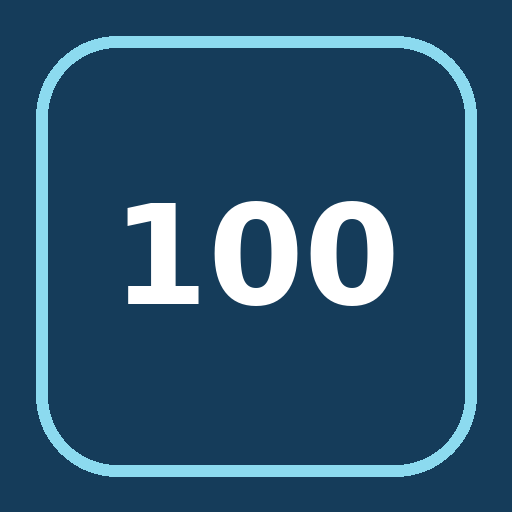
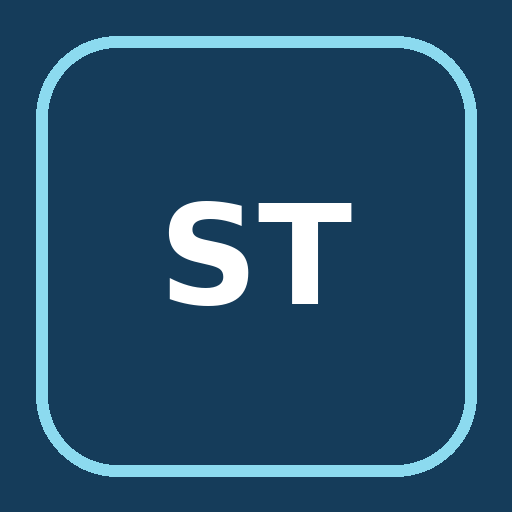
Rename Team 100 to Sample Team

Changed region(s): [[0.25, 0.375, 0.7812, 0.625]]

diff --git a/index.html b/index.html
@@ -1,1 +1,1 @@
-<!doctype html><html lang="en"><head><meta charset="utf-8"><meta name="viewport" content="width=device-width,initial-scale=1"><title>Softball Schedules</title><link rel="stylesheet" href="assets/style.css?v=2"></head><body><header><strong>Softball Schedules</strong></header><main><div class="hero"><h1>Team directory</h1><p>Choose a team to view its next game, schedule, and roster.</p></div><section><h2>Teams</h2><div class="panel"><label for="team-search">Find a team</label><input id="team-search" type="search" placeholder="Search team number" autocomplete="off"><ul id="team-list" class="team-grid"><li><a href="teams/team-01/">Team 01</a></li><li><a href="teams/team-02/">Team 02</a></li><li><a href="teams/team-03/">Team 03</a></li><li><a href="teams/team-04/">Team 04</a></li><li><a href="teams/team-05/">Team 05</a></li><li><a href="teams/team-06/">Team 06</a></li><li><a href="teams/team-07/">Team 07</a></li><li><a href="teams/team-08/">Team 08</a></li><li><a href="teams/team-09/">Team 09</a></li><li><a href="teams/team-10/">Team 10</a></li><li><a href="teams/team-11/">Team 11</a></li><li><a href="teams/team-12/">Team 12</a></li><li><a href="teams/team-13/">Team 13</a></li><li><a href="teams/team-14/">Team 14</a></li><li><a href="teams/team-15/">Team 15</a></li><li><a href="teams/team-16/">Team 16</a></li><li><a href="teams/team-17/">Team 17</a></li><li><a href="teams/team-18/">Team 18</a></li><li><a href="teams/team-19/">Team 19</a></li><li><a href="teams/team-20/">Team 20</a></li><li><a href="teams/team-21/">Team 21</a></li><li><a href="teams/team-22/">Team 22</a></li><li><a href="teams/team-23/">Team 23</a></li><li><a href="teams/team-24/">Team 24</a></li><li><a href="teams/team-25/">Team 25</a></li><li><a href="teams/team-26/">Team 26</a></li><li><a href="teams/team-27/">Team 27</a></li><li><a href="teams/team-28/">Team 28</a></li><li><a href="teams/team-29/">Team 29</a></li><li><a href="teams/team-30/">Team 30</a></li><li><a href="teams/team-31/">Team 31</a></li><li><a href="teams/team-32/">Team 32</a></li><li><a href="teams/team-33/">Team 33</a></li><li><a href="teams/team-34/">Team 34</a></li><li><a href="teams/team-35/">Team 35</a></li><li><a href="teams/team-36/">Team 36</a></li><li><a href="teams/team-37/">Team 37</a></li><li><a href="teams/team-38/">Team 38</a></li><li><a href="teams/team-39/">Team 39</a></li><li><a href="teams/team-40/">Team 40</a></li><li><a href="teams/team-41/">Team 41</a></li><li><a href="teams/team-42/">Team 42</a></li><li><a href="teams/team-43/">Team 43</a></li><li><a href="teams/team-44/">Team 44</a></li><li><a href="teams/team-45/">Team 45</a></li><li><a href="teams/team-46/">Team 46</a></li><li><a href="teams/team-47/">Team 47</a></li><li><a href="teams/team-48/">Team 48</a></li><li><a href="teams/team-49/">Team 49</a></li><li><a href="teams/team-50/">Team 50</a></li><li><a href="teams/team-51/">Team 51</a></li><li><a href="teams/team-52/">Team 52</a></li><li><a href="teams/team-53/">Team 53</a></li><li><a href="teams/team-54/">Team 54</a></li><li><a href="teams/team-55/">Team 55</a></li><li><a href="teams/team-56/">Team 56</a></li><li><a href="teams/team-57/">Team 57</a></li><li><a href="teams/team-58/">Team 58</a></li><li><a href="teams/team-59/">Team 59</a></li><li><a href="teams/team-60/">Team 60</a></li><li><a href="teams/team-61/">Team 61</a></li><li><a href="teams/team-62/">Team 62</a></li><li><a href="teams/team-63/">Team 63</a></li><li><a href="teams/team-64/">Team 64</a></li><li><a href="teams/team-65/">Team 65</a></li><li><a href="teams/team-66/">Team 66</a></li><li><a href="teams/team-67/">Team 67</a></li><li><a href="teams/team-68/">Team 68</a></li><li><a href="teams/team-69/">Team 69</a></li><li><a href="teams/team-70/">Team 70</a></li><li><a href="teams/team-71/">Team 71</a></li><li><a href="teams/team-72/">Team 72</a></li><li><a href="teams/team-73/">Team 73</a></li><li><a href="teams/team-74/">Team 74</a></li><li><a href="teams/team-75/">Team 75</a></li><li><a href="teams/team-76/">Team 76</a></li><li><a href="teams/team-77/">Team 77</a></li><li><a href="teams/team-78/">Team 78</a></li><li><a href="teams/team-79/">Team 79</a></li><li><a href="teams/team-80/">Team 80</a></li><li><a href="teams/team-81/">Team 81</a></li><li><a href="teams/team-82/">Team 82</a></li><li><a href="teams/team-83/">Team 83</a></li><li><a href="teams/team-84/">Team 84</a></li><li><a href="teams/team-85/">Team 85</a></li><li><a href="teams/team-86/">Team 86</a></li><li><a href="teams/team-87/">Team 87</a></li><li><a href="teams/team-88/">Team 88</a></li><li><a href="teams/team-89/">Team 89</a></li><li><a href="teams/team-90/">Team 90</a></li><li><a href="teams/team-91/">Team 91</a></li><li><a href="teams/team-92/">Team 92</a></li><li><a href="teams/team-93/">Team 93</a></li><li><a href="teams/team-94/">Team 94</a></li><li><a href="teams/team-95/">Team 95</a></li><li><a href="teams/team-96/">Team 96</a></li><li><a href="teams/team-97/">Team 97</a></li><li><a href="teams/team-98/">Team 98</a></li><li><a href="teams/team-99/">Team 99</a></li><li><a href="teams/team-100/">Team 100</a></li></ul><p id="no-teams" hidden>No teams match your search.</p></div></section></main><footer>Softball Schedules</footer><script src="assets/directory.js?v=2" defer></script></body></html>
+<!doctype html><html lang="en"><head><meta charset="utf-8"><meta name="viewport" content="width=device-width,initial-scale=1"><title>Softball Schedules</title><link rel="stylesheet" href="assets/style.css?v=2"></head><body><header><strong>Softball Schedules</strong></header><main><div class="hero"><h1>Team directory</h1><p>Choose a team to view its next game, schedule, and roster.</p></div><section><h2>Teams</h2><div class="panel"><label for="team-search">Find a team</label><input id="team-search" type="search" placeholder="Search team number" autocomplete="off"><ul id="team-list" class="team-grid"><li><a href="teams/team-01/">Team 01</a></li><li><a href="teams/team-02/">Team 02</a></li><li><a href="teams/team-03/">Team 03</a></li><li><a href="teams/team-04/">Team 04</a></li><li><a href="teams/team-05/">Team 05</a></li><li><a href="teams/team-06/">Team 06</a></li><li><a href="teams/team-07/">Team 07</a></li><li><a href="teams/team-08/">Team 08</a></li><li><a href="teams/team-09/">Team 09</a></li><li><a href="teams/team-10/">Team 10</a></li><li><a href="teams/team-11/">Team 11</a></li><li><a href="teams/team-12/">Team 12</a></li><li><a href="teams/team-13/">Team 13</a></li><li><a href="teams/team-14/">Team 14</a></li><li><a href="teams/team-15/">Team 15</a></li><li><a href="teams/team-16/">Team 16</a></li><li><a href="teams/team-17/">Team 17</a></li><li><a href="teams/team-18/">Team 18</a></li><li><a href="teams/team-19/">Team 19</a></li><li><a href="teams/team-20/">Team 20</a></li><li><a href="teams/team-21/">Team 21</a></li><li><a href="teams/team-22/">Team 22</a></li><li><a href="teams/team-23/">Team 23</a></li><li><a href="teams/team-24/">Team 24</a></li><li><a href="teams/team-25/">Team 25</a></li><li><a href="teams/team-26/">Team 26</a></li><li><a href="teams/team-27/">Team 27</a></li><li><a href="teams/team-28/">Team 28</a></li><li><a href="teams/team-29/">Team 29</a></li><li><a href="teams/team-30/">Team 30</a></li><li><a href="teams/team-31/">Team 31</a></li><li><a href="teams/team-32/">Team 32</a></li><li><a href="teams/team-33/">Team 33</a></li><li><a href="teams/team-34/">Team 34</a></li><li><a href="teams/team-35/">Team 35</a></li><li><a href="teams/team-36/">Team 36</a></li><li><a href="teams/team-37/">Team 37</a></li><li><a href="teams/team-38/">Team 38</a></li><li><a href="teams/team-39/">Team 39</a></li><li><a href="teams/team-40/">Team 40</a></li><li><a href="teams/team-41/">Team 41</a></li><li><a href="teams/team-42/">Team 42</a></li><li><a href="teams/team-43/">Team 43</a></li><li><a href="teams/team-44/">Team 44</a></li><li><a href="teams/team-45/">Team 45</a></li><li><a href="teams/team-46/">Team 46</a></li><li><a href="teams/team-47/">Team 47</a></li><li><a href="teams/team-48/">Team 48</a></li><li><a href="teams/team-49/">Team 49</a></li><li><a href="teams/team-50/">Team 50</a></li><li><a href="teams/team-51/">Team 51</a></li><li><a href="teams/team-52/">Team 52</a></li><li><a href="teams/team-53/">Team 53</a></li><li><a href="teams/team-54/">Team 54</a></li><li><a href="teams/team-55/">Team 55</a></li><li><a href="teams/team-56/">Team 56</a></li><li><a href="teams/team-57/">Team 57</a></li><li><a href="teams/team-58/">Team 58</a></li><li><a href="teams/team-59/">Team 59</a></li><li><a href="teams/team-60/">Team 60</a></li><li><a href="teams/team-61/">Team 61</a></li><li><a href="teams/team-62/">Team 62</a></li><li><a href="teams/team-63/">Team 63</a></li><li><a href="teams/team-64/">Team 64</a></li><li><a href="teams/team-65/">Team 65</a></li><li><a href="teams/team-66/">Team 66</a></li><li><a href="teams/team-67/">Team 67</a></li><li><a href="teams/team-68/">Team 68</a></li><li><a href="teams/team-69/">Team 69</a></li><li><a href="teams/team-70/">Team 70</a></li><li><a href="teams/team-71/">Team 71</a></li><li><a href="teams/team-72/">Team 72</a></li><li><a href="teams/team-73/">Team 73</a></li><li><a href="teams/team-74/">Team 74</a></li><li><a href="teams/team-75/">Team 75</a></li><li><a href="teams/team-76/">Team 76</a></li><li><a href="teams/team-77/">Team 77</a></li><li><a href="teams/team-78/">Team 78</a></li><li><a href="teams/team-79/">Team 79</a></li><li><a href="teams/team-80/">Team 80</a></li><li><a href="teams/team-81/">Team 81</a></li><li><a href="teams/team-82/">Team 82</a></li><li><a href="teams/team-83/">Team 83</a></li><li><a href="teams/team-84/">Team 84</a></li><li><a href="teams/team-85/">Team 85</a></li><li><a href="teams/team-86/">Team 86</a></li><li><a href="teams/team-87/">Team 87</a></li><li><a href="teams/team-88/">Team 88</a></li><li><a href="teams/team-89/">Team 89</a></li><li><a href="teams/team-90/">Team 90</a></li><li><a href="teams/team-91/">Team 91</a></li><li><a href="teams/team-92/">Team 92</a></li><li><a href="teams/team-93/">Team 93</a></li><li><a href="teams/team-94/">Team 94</a></li><li><a href="teams/team-95/">Team 95</a></li><li><a href="teams/team-96/">Team 96</a></li><li><a href="teams/team-97/">Team 97</a></li><li><a href="teams/team-98/">Team 98</a></li><li><a href="teams/team-99/">Team 99</a></li><li><a href="teams/team-100/">Sample Team</a></li></ul><p id="no-teams" hidden>No teams match your search.</p></div></section></main><footer>Softball Schedules</footer><script src="assets/directory.js?v=2" defer></script></body></html>

diff --git a/teams/team-100/index.html b/teams/team-100/index.html
@@ -1,1 +1,1 @@
-<!doctype html><html lang="en"><head><meta charset="utf-8"><meta name="viewport" content="width=device-width,initial-scale=1"><meta name="robots" content="noindex,nofollow"><meta name="theme-color" content="#153c5a"><meta name="apple-mobile-web-app-capable" content="yes"><meta name="apple-mobile-web-app-title" content="Team 100"><title>Team 100 | Softball Schedules</title><link rel="stylesheet" href="../../assets/style.css?v=2"><link rel="manifest" href="manifest.webmanifest"><link rel="icon" href="icon-192.png"><link rel="apple-touch-icon" href="icon-192.png"></head><body style="--team:#153c5a"><header><strong>Team 100</strong><nav><a href="#schedule">Schedule</a><a href="#roster">Roster</a></nav></header><main><div class="hero"><div class="logo-placeholder" role="img" aria-label="Team logo placeholder">Team logo</div><h1>Team 100</h1><p>Team schedule and roster</p></div><aside id="next-game" class="next-game" aria-live="polite"><h2>Next game</h2><p class="empty">Loading schedule…</p></aside><section id="schedule"><h2>Schedule</h2><div class="panel"><table><thead><tr><th scope="col">Date</th><th scope="col">Time</th><th scope="col">Opponent</th><th scope="col">Location</th></tr></thead><tbody id="schedule-body"><tr><td colspan="4" class="empty">Loading schedule…</td></tr></tbody></table></div></section><section id="roster"><h2>Roster</h2><div class="panel"><table><thead><tr><th scope="col">#</th><th scope="col">Player</th><th scope="col">Position</th></tr></thead><tbody><tr><td colspan="3" class="empty">Roster coming soon.</td></tr></tbody></table></div></section><section><h2>Add to home screen</h2><p>Open this page in your phone's browser and choose “Add to Home Screen” from its menu. Your shortcut opens this team page.</p><button id="install-button" class="button" hidden>Install Team 100</button></section></main><footer>Team 100 · Softball Schedules</footer><script src="../../assets/schedule.js?v=2" defer></script><script src="../../assets/install.js" defer></script></body></html>
+<!doctype html><html lang="en"><head><meta charset="utf-8"><meta name="viewport" content="width=device-width,initial-scale=1"><meta name="robots" content="noindex,nofollow"><meta name="theme-color" content="#153c5a"><meta name="apple-mobile-web-app-capable" content="yes"><meta name="apple-mobile-web-app-title" content="Sample Team"><title>Sample Team | Softball Schedules</title><link rel="stylesheet" href="../../assets/style.css?v=2"><link rel="manifest" href="manifest.webmanifest"><link rel="icon" href="icon-192.png"><link rel="apple-touch-icon" href="icon-192.png"></head><body style="--team:#153c5a"><header><strong>Sample Team</strong><nav><a href="#schedule">Schedule</a><a href="#roster">Roster</a></nav></header><main><div class="hero"><div class="logo-placeholder" role="img" aria-label="Team logo placeholder">Team logo</div><h1>Sample Team</h1><p>Team schedule and roster</p></div><aside id="next-game" class="next-game" aria-live="polite"><h2>Next game</h2><p class="empty">Loading schedule…</p></aside><section id="schedule"><h2>Schedule</h2><div class="panel"><table><thead><tr><th scope="col">Date</th><th scope="col">Time</th><th scope="col">Opponent</th><th scope="col">Location</th></tr></thead><tbody id="schedule-body"><tr><td colspan="4" class="empty">Loading schedule…</td></tr></tbody></table></div></section><section id="roster"><h2>Roster</h2><div class="panel"><table><thead><tr><th scope="col">#</th><th scope="col">Player</th><th scope="col">Position</th></tr></thead><tbody><tr><td colspan="3" class="empty">Roster coming soon.</td></tr></tbody></table></div></section><section><h2>Add to home screen</h2><p>Open this page in your phone's browser and choose “Add to Home Screen” from its menu. Your shortcut opens this team page.</p><button id="install-button" class="button" hidden>Install Sample Team</button></section></main><footer>Sample Team · Softball Schedules</footer><script src="../../assets/schedule.js?v=2" defer></script><script src="../../assets/install.js" defer></script></body></html>
